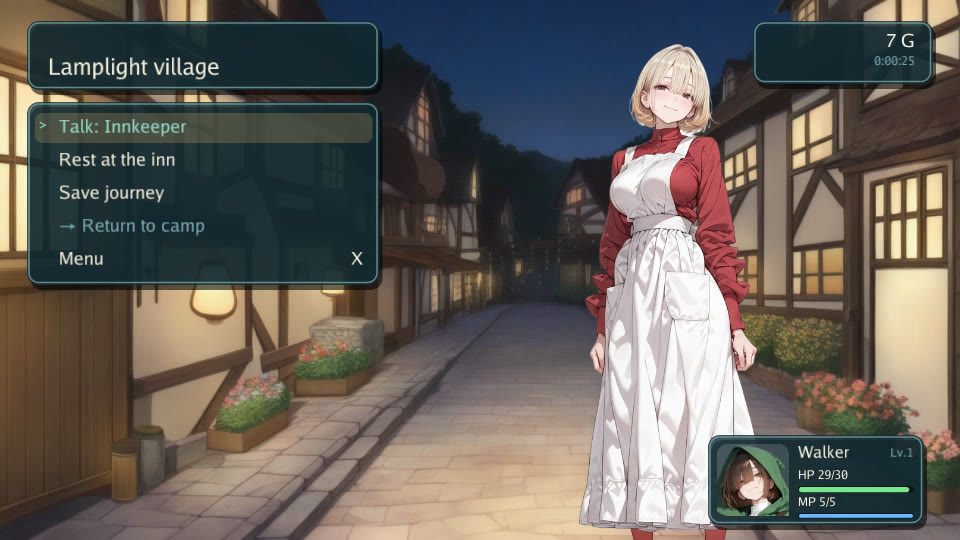
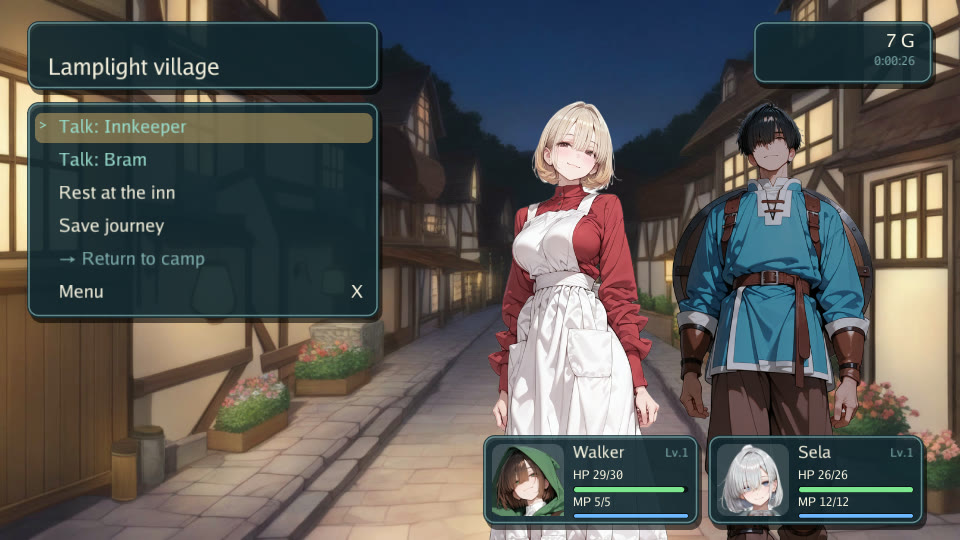
docs: show the halls, the party and a cut-in in the Wayfinder captures
The capture walks the halls with the party, takes the dungeon, party and
cut-in stills from the trace's ticks, converts every frame to RGB before the
GIF's palette (mixed alpha frames made all GIF frames alike) and checks that
the frames differ. The GIF is 640x360 with 112 colors to stay near its
earlier size. README tables gain one row of images.

Claude-Session: https://claude.ai/code/session_01H5Pbj6ZzTa3rmK39mRuzKf

diff --git a/scripts/capture-example.py b/scripts/capture-example.py
@@ -23,8 +23,8 @@ subprocess.run(
 # Check real progress as well as successful encoding. A script can finish
 # normally after a misplaced key or a wait limit.
 save = json.loads((work / "saves/save1.json").read_text())["state"]
-if save["location"] != "ridge" or not save["flags"].get("complete") or save["gold"] != 7:
-    raise RuntimeError("capture did not complete and save the journey (slot 1)")
+if save["location"] != "ridge" or not save["flags"].get("complete") or save["gold"] != 7 or save["party"] != ["walker", "sela"]:
+    raise RuntimeError("capture did not complete and save the journey with Sela (slot 1)")
 trace = [json.loads(line) for line in (work / "trace.jsonl").read_text().splitlines()]
 states = [line for line in trace if line["t"] == "state"]
 visited = {line["location"] for line in states}
@@ -33,7 +33,7 @@ if not {"camp", "ridge", "chamber"} <= visited:
 shown = {name for line in trace if line["t"] == "view" for name in line["pictures"]}
 missing = {"title.jpg", "camp.jpg", "ridge.jpg", "town.jpg", "grotto.jpg", "wall.jpg", "courier.png", "innkeeper.png",
            "pebble.png", "walker/normal.png", "floor.jpg", "door.jpg", "gate.jpg", "chest.png", "chest_open.png", "wheel.png",
-           "lantern.png"} - shown
+           "lantern.png", "bram/normal.png", "sela/normal.png"} - shown
 if missing:
     raise RuntimeError(f"capture never showed: {sorted(missing)}")
 terminal = next(line for line in reversed(states) if line.get("terminal"))
@@ -52,9 +52,28 @@ animation = sorted(
 )
 if len(animation) < 40:
     raise RuntimeError(f"only {len(animation)} frames were captured")
-# The halls' fight is longer than the practice; every third of its frames keeps the GIF small.
+# The party's fight in the halls: Bram's skill shows a cut-in. The trace gives the tick of
+# the cut-in and of every frame, so the stills and the kept frames follow the game.
+shot_tick = {Path(line["file"]).name: line["tick"] for line in trace if line["t"] == "shot"}
+cutins = [line["tick"] for line in trace if line.get("cutin")]
+if not cutins:
+    raise RuntimeError("the halls' fight showed no cut-in")
+cut = cutins[0]
 sentry = [p for p in animation if p.name.startswith("sentry_b")]
-animation = [p for p in animation if not p.name.startswith("sentry_b") or sentry.index(p) % 3 == 0]
+before = [p for p in sentry if shot_tick[p.name] < cut]
+during = [p for p in sentry if cut + 15 <= shot_tick[p.name] <= cut + 50]
+if not before or not during:
+    raise RuntimeError("no frames of the party or of the cut-in")
+stills = {"party": before[-1], "cutin": min(during, key=lambda p: abs(shot_tick[p.name] - cut - 30))}
+# Every fourth frame of the fight and the frames of the open cut-in keep the GIF small.
+animation = [p for p in animation if not p.name.startswith("sentry_b")
+             or sentry.index(p) % 4 == 0 or cut + 15 <= shot_tick[p.name] <= cut + 50]
+for name, frame in stills.items():
+    subprocess.run(
+        ["ffmpeg", "-hide_banner", "-loglevel", "error", "-y", "-i", str(frame),
+         "-q:v", "3", f"docs/images/wayfinder-{name}.jpg"],
+        check=True, timeout=30,
+    )
 battle = [p for p in animation if p.name.startswith("practice_b")]
 if not battle or not any(p.name.startswith("sentry_b") for p in animation):
     raise RuntimeError("no battle frames were captured")
@@ -63,19 +82,23 @@ subprocess.run(
      "-q:v", "3", "docs/images/wayfinder-battle.jpg"],
     check=True, timeout=30,
 )
+# The game writes some frames with an alpha channel. A mixed sequence breaks ffmpeg's
+# single palette (every GIF frame alike, or false colors), so every frame becomes RGB first.
 for index, frame in enumerate(animation):
-    frame.rename(work / f"frame-{index:03d}.png")
+    subprocess.run(
+        ["ffmpeg", "-hide_banner", "-loglevel", "error", "-y", "-i", str(frame), "-pix_fmt", "rgb24",
+         str(work / f"frame-{index:03d}.png")],
+        check=True, timeout=30,
+    )
 
-width, height, fps = 800, 450, 5
+width, height, fps = 640, 360, 5
 Path("docs/images").mkdir(parents=True, exist_ok=True)
 subprocess.run(
-    # The game writes some frames with an alpha channel; -reinit_filter 0 keeps one
-    # filter graph (one palette) for the mixed frames instead of a broken GIF.
-    ["ffmpeg", "-hide_banner", "-loglevel", "error", "-y", "-framerate", str(fps), "-reinit_filter", "0",
+    ["ffmpeg", "-hide_banner", "-loglevel", "error", "-y", "-framerate", str(fps),
      "-i", str(work / "frame-%03d.png"), "-fps_mode", "cfr", "-filter_complex",
      f"format=rgb24,scale={width}:{height}:flags=lanczos,split[a][b];"
-     "[a]palettegen=max_colors=192:stats_mode=diff[p];"
-     "[b][p]paletteuse=dither=bayer:bayer_scale=4:diff_mode=rectangle",
+     "[a]palettegen=max_colors=112:stats_mode=diff[p];"
+     "[b][p]paletteuse=dither=bayer:bayer_scale=5:diff_mode=rectangle",
      "-loop", "0", "docs/images/wayfinder.gif"],
     check=True, timeout=120,
 )

diff --git a/docs/examples/wayfinder.md b/docs/examples/wayfinder.md
@@ -1,11 +1,14 @@
 # Wayfinder
 
-Wayfinder is an original, small game assembled with the public Gozen API. Practice with a friendly stone companion, light a trail marker, and walk to Lantern ridge. A village with an inn, a grotto with a wild Pebble to fight again (plus a sturdier Cobble and a rockfall of three for balance checks), and a side room with first-person grid movement round it out. The story, names, dialogue and pictures were made for this repository; the pictures are CC BY 4.0, see [ASSETS.md](../../ASSETS.md).
+Wayfinder is an original, small game assembled with the public Gozen API. Practice with a friendly stone companion, light a trail marker, and walk to Lantern ridge, where Sela the lamplighter joins you. Bram waits in the village with an inn and joins too. A grotto has a wild Pebble to fight again (plus a sturdier Cobble and a rockfall of three for balance checks), and the observation halls are a first-person maze with branches, dead ends, a chest, a sentry fight where Bram's Shield Rush shows a cut-in, and a wheel that opens the gate to the lantern. The story, names, dialogue and pictures were made for this repository; the pictures are CC BY 4.0, see [ASSETS.md](../../ASSETS.md).
 
 ![Title screen](../images/wayfinder-title.jpg)
 ![Conversation with the courier](../images/wayfinder-talk.jpg)
 ![Practice battle in the grotto background](../images/wayfinder-battle.jpg)
 ![Lamplight village](../images/wayfinder-village.jpg)
+![The observation halls, a Pebble sentry ahead](../images/wayfinder-dungeon.jpg)
+![A party of three fights the sentries](../images/wayfinder-party.jpg)
+![Bram's Shield Rush cut-in](../images/wayfinder-cutin.jpg)
 
 ## Run
 
@@ -21,12 +24,12 @@ The example embeds its YAML and pictures (`examples/play/game/`, laid out like a
 
 1. Select **New journey**, then **Talk: Courier**. Enter advances the two lines.
 2. Select **Practice**. In battle, select **Auto** to let the engine fight, or choose **Attack**, then Pebble as the target, each turn. Winning unlocks **Light the marker**.
-3. Select **Light the marker**, read the message, then **Walk to the ridge**. The arrival event awards 4G once; practice awarded 3G.
+3. Select **Light the marker**, read the message, then **Walk to the ridge**. The arrival event awards 4G once (practice awarded 3G), and Sela joins the party.
 4. Select **Save journey**, choose slot 1 and wait for confirmation. Press Esc to open the menu, choose **Return to title**, confirm, and use **Continue** to restore the journey. Menu **Load** also restores a slot after confirmation.
-5. Return to camp and select **Visit the village** to talk to the innkeeper or rest at the inn, or **Enter the grotto** to fight a wild Pebble again. The grotto also offers **Face the Cobble** and **Brave the rockfall**, which are much harder at level 1.
-6. Return to camp and select **Explore chamber**. Up walks forward, Left/Right turns, Down turns around. Reach **L** to read the window event; **C** leads back to camp. The minimap fills as you walk.
+5. Return to camp and select **Visit the village**. Talk to Bram and he joins; the innkeeper talks and the inn heals. **Enter the grotto** fights a wild Pebble again; it also offers **Face the Cobble** and **Brave the rockfall**, which are much harder at level 1.
+6. Return to camp and select **Explore chamber**. Up walks forward, Left/Right turns, Down turns around, and walking into a chest, a sentry or a wheel uses it. A chest at a dead end holds 5G. The Pebble sentries (**!** on the map) guard the east hall; Auto in their fight lets Bram open with Shield Rush, a skill with `cutin: true`. The iron gate stays shut until the wheel (**W**) in the west hall is turned; the lantern (**L**) behind it reads the window event, and the door **C** leads back to camp. The minimap fills as you walk.
 
-The ridge path is hidden until its marker is lit. Revisiting the ridge after loading does not award its arrival reward again. These transitions and the room's return route are checked against the same definitions in `examples/play/journey_test.go:16`.
+The ridge path is hidden until its marker is lit. Revisiting the ridge after loading does not award its arrival reward again. These transitions, the companions joining, the halls (chest, sentries, wheel and gate, a save and load inside them) and their return route are checked against the same definitions in `examples/play/journey_test.go:16`. The halls are a hand-written `dungeon.map` in `examples/play/game/data/world.yaml` using only tile definitions (`solid`, `once` with `after`, `when`, `trigger: bump`, `look: wall` and `look: door`, pictures and textures); the cut-in uses the standing picture, since the actors have no separate cut-in picture.
 
 ## Controls and saves
 
@@ -38,7 +41,7 @@ The ridge path is hidden until its marker is lit. Revisiting the ridge after loa
 | F11 / Alt+Enter | Fullscreen |
 | M | Mute |
 | F7 (with `--dev`) | Balance panel: win rate (healed and as now), HP left, wins in a row and win rate by level for the battles here ([details](../development/graphics.md#バランス表示)) |
-| Up, Left / Right, Down in the room | Forward, turn, turn around |
+| Up, Left / Right, Down in the halls | Forward (or use what is ahead), turn, turn around |
 
 Normal saves use the platform config directory under `gozen/wayfinder-demo`: typically `$XDG_CONFIG_HOME` or `~/.config` on Linux, `%AppData%` on Windows, and `~/Library/Application Support` on macOS. An explicit `--save-dir` is the complete destination. The scripted capture uses a private temporary directory and removes it when finished. A development run with `--start` also isolates saves unless a destination is explicit (`runner/runner.go:128`, `internal/play/play.go:356`).
 
@@ -52,7 +55,7 @@ On Linux, install Go, Python 3, ffmpeg, Xvfb and xauth (ffmpeg must include ffpr
 xvfb-run --auto-servernum --error-file=/dev/stderr bash scripts/capture-example.sh
 ```
 
-The script builds the actual sample, fixes its seed, selects its menu actions, talks to the courier, runs the practice battle, lights the marker, walks to the ridge, saves, returns to the title, restores the slot, visits the village, and walks to the lantern in the observation room. The game writes about sixty PNG frames from its Draw loop, five per second of animation. Before encoding, Python checks that the actual save contains the ridge location, the completion flag and 7G, that the trace ends at the lantern in the room, and that every generated picture was shown. It encodes a 12.8-second, 800×450 GIF (about 1.5 MB) to `docs/images/wayfinder.gif` and writes four 960×540 JPEG screenshots (`wayfinder-title.jpg`, `-talk.jpg`, `-battle.jpg`, `-village.jpg`). The GIF is a sequence of real captured frames played at five per second, not a continuous screen recording. The generated executable stays in ignored `build/capture/`; temporary saves, traces and intermediate frames are removed. Existing showcase files are replaced.
+The script builds the actual sample, fixes its seed, selects its menu actions, talks to the courier, runs the practice battle, lights the marker, walks to the ridge (Sela joins), saves, returns to the title, restores the slot, visits the village (Bram joins), and walks the observation halls: the sentry fight with the cut-in, the chest, the gate, the wheel and the lantern. The game writes PNG frames from its Draw loop, five per second of animation; the battles' frames come from the game while it plays them. Before encoding, Python checks that the actual save contains the ridge location, the completion flag, 7G and Sela, that the trace ends at the lantern in the halls with 18G after the chest and the fight, that the halls' messages and a cut-in were shown, and that every generated picture was shown. It encodes a 13-second, 640×360 GIF of about 66 frames (about 1.5 MB, 112 colors) to `docs/images/wayfinder.gif` and writes seven 960×540 JPEG screenshots (`wayfinder-title.jpg`, `-talk.jpg`, `-battle.jpg`, `-village.jpg`, `-dungeon.jpg`, `-party.jpg`, `-cutin.jpg`). The party and cut-in stills are the fight's frames just before and during the cut-in, found by the ticks in the trace. The game writes some frames with an alpha channel, so every frame is converted to RGB before the GIF's single palette is made; mixed frames made every GIF frame alike, and the script now also checks that the GIF frames differ. The GIF is a sequence of real captured frames played at five per second, not a continuous screen recording. The generated executable stays in ignored `build/capture/`; temporary saves, traces and intermediate frames are removed. Existing showcase files are replaced.
 
 `capture-example.txt` is the input sequence, `capture-example.sh` owns temporary paths and prerequisites, and `capture-example.py` validates progress and encodes the images. Failures return a nonzero status. The script checks the final room position in the trace and the encoded GIF dimensions and duration with ffprobe. The game run has a 240-second timeout. `scripts/capture-balance.sh` (with `scripts/capture-balance.txt`) fights the Cobble once, then captures the development balance panel for the hurt party in the grotto to `docs/images/wayfinder-balance.jpg` in the same 960×540 JPEG form.
 

diff --git a/docs/development/graphics.md b/docs/development/graphics.md
@@ -10,7 +10,7 @@ go run ./examples/play --help
 go run ./examples/play --dev --mute --start camp --seed 7
 ```
 
-Wayfinder は独自の小さなサンプル。キャンプで会話・練習戦闘を行い、道標を灯して尾根へ進み、保存・復元を試す。隣の部屋ではグリッド移動を試す。遊び方と Xvfb による PNG・GIF の再生成は [サンプルガイド](../examples/wayfinder.md) を参照する。通常起動の保存は OS の config ディレクトリ配下の `gozen/wayfinder-demo`。開始位置指定の試走は保存先を省略すると一時保存になる。素材とフォントの出典は [素材台帳](../examples/play-assets.md) に記載する。
+Wayfinder は独自の小さなサンプル。キャンプで会話・練習戦闘を行い、道標を灯して尾根へ進み、保存・復元を試す。尾根と村で仲間が加わり、観測の回廊（一人称の迷宮）では宝箱・見張りとの戦闘（カットイン）・門を開ける仕掛けを試す。遊び方と Xvfb による PNG・GIF の再生成は [サンプルガイド](../examples/wayfinder.md) を参照する。通常起動の保存は OS の config ディレクトリ配下の `gozen/wayfinder-demo`。開始位置指定の試走は保存先を省略すると一時保存になる。素材とフォントの出典は [素材台帳](../examples/play-assets.md) に記載する。
 
 `runner.Run` が受ける起動オプションは `gozen` と同じ GNU 形式（[ADR 0018](../decisions/0018-gnu-options-and-help.md)）。`--seed 7` と `--seed=7` を受け、`-dev` のような単一ダッシュの長い名前はエラーになる。`--help` は `[Usage]`・`[Examples]`・種類ごとの `[Options]`（ゲーム、試走、自動操作、スクリプトと記録、メモと見直し）・`Requirements:`・リンクの形で、`--dev` が要るオプションはまとまりの名前に `(--dev)` と書く。
 

diff --git a/README.ja.md b/README.ja.md
@@ -75,6 +75,10 @@ New journey を選び、配達人と話し、練習戦闘に勝ち（Auto なら
 |:--|:--|:--|
 | ![title](docs/images/wayfinder-title.jpg) | ![conversation](docs/images/wayfinder-talk.jpg) | ![battle](docs/images/wayfinder-battle.jpg) |
 
+| Dungeon | Party | Cut-in |
+|:--|:--|:--|
+| ![dungeon](docs/images/wayfinder-dungeon.jpg) | ![party battle](docs/images/wayfinder-party.jpg) | ![cut-in](docs/images/wayfinder-cutin.jpg) |
+
 ## なぜ Gozen か
 
 用途に合う道具を選んでください。

diff --git a/README.md b/README.md
@@ -75,6 +75,10 @@ Screens from the same run:
 |:--|:--|:--|
 | ![title](docs/images/wayfinder-title.jpg) | ![conversation](docs/images/wayfinder-talk.jpg) | ![battle](docs/images/wayfinder-battle.jpg) |
 
+| Dungeon | Party | Cut-in |
+|:--|:--|:--|
+| ![dungeon](docs/images/wayfinder-dungeon.jpg) | ![party battle](docs/images/wayfinder-party.jpg) | ![cut-in](docs/images/wayfinder-cutin.jpg) |
+
 ## Why Gozen?
 
 Pick the tool that fits the job:
